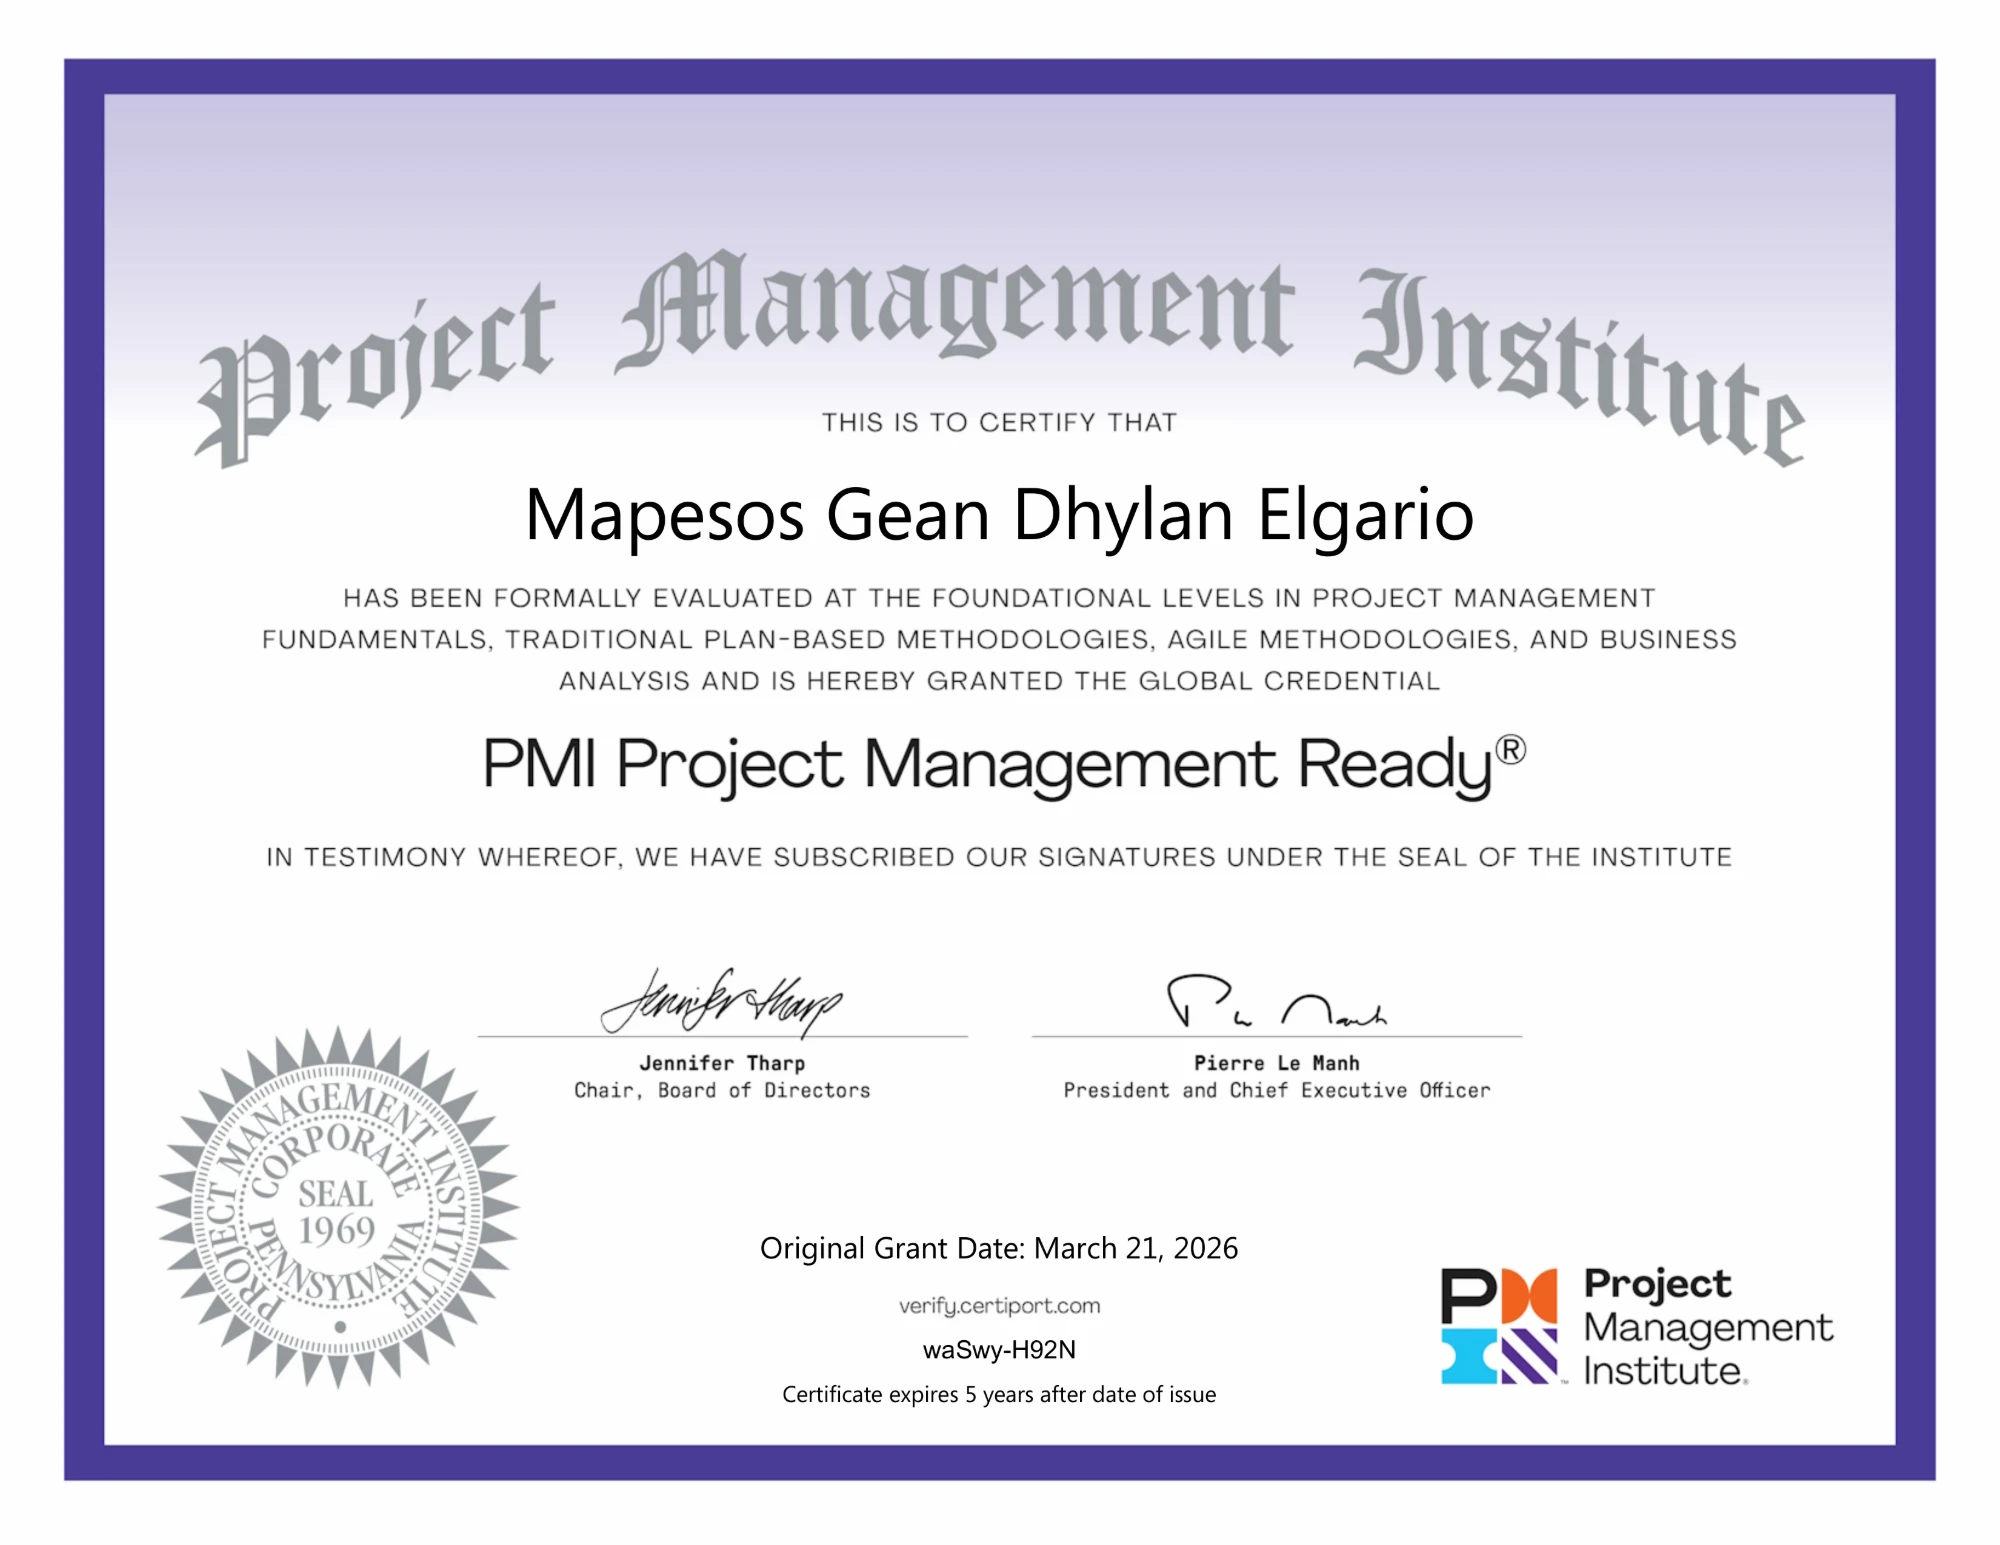
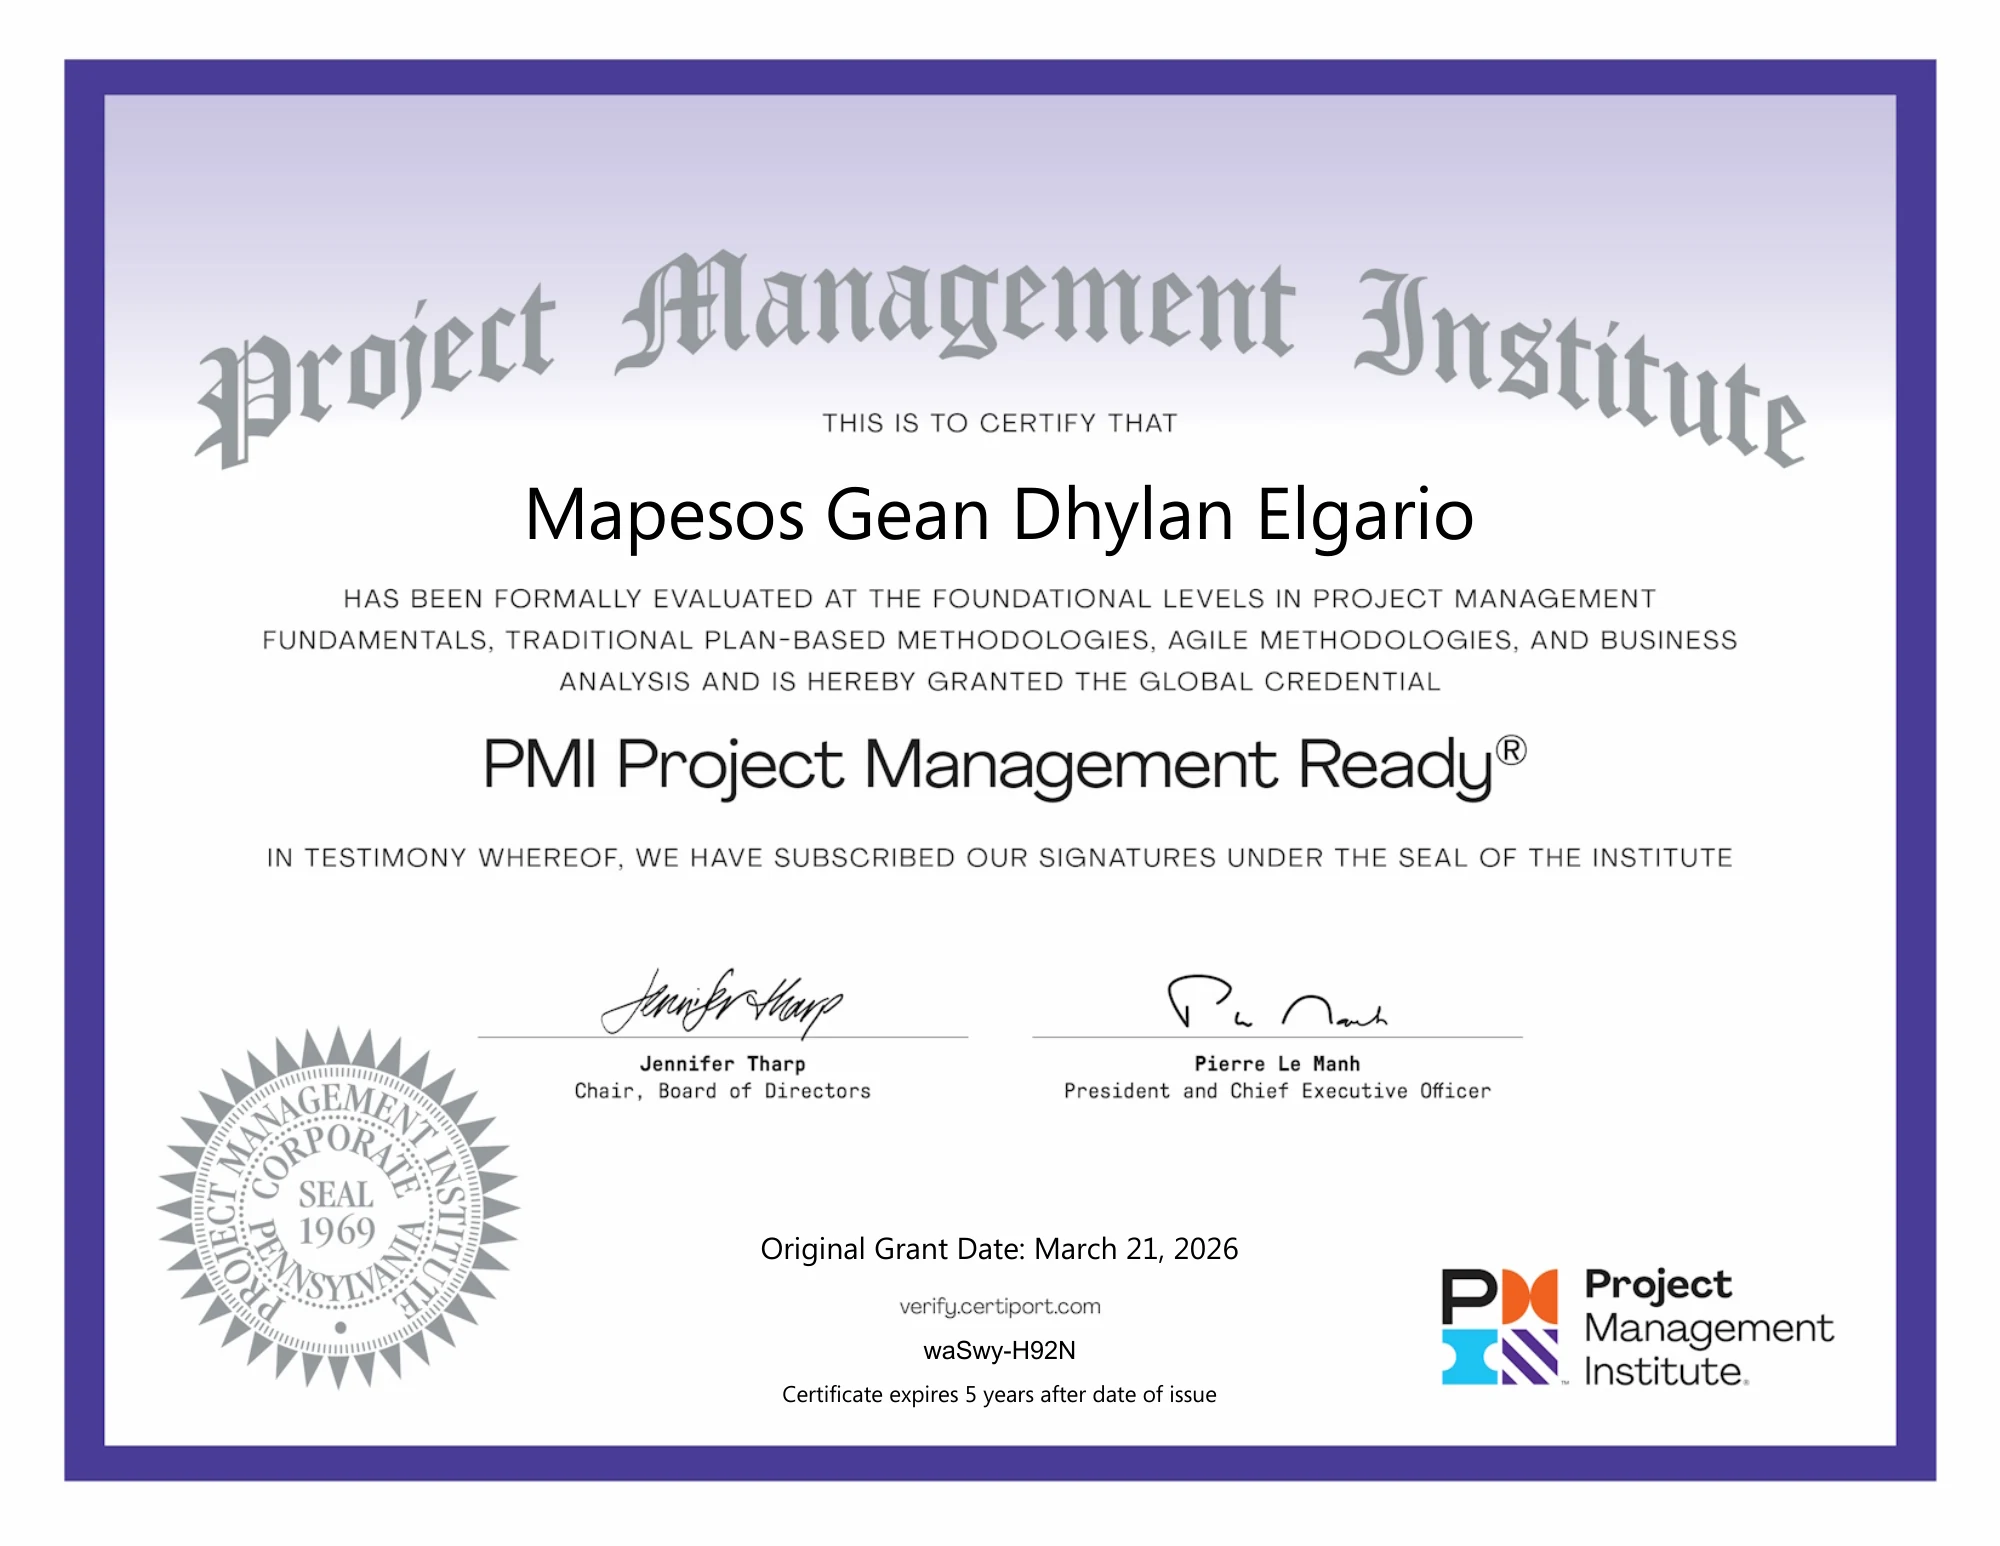
feat: show the official Certiport certificates
Replace the Python badge with the official certificate rendered from
the Certiport PDF, and re-render the PMI certificate from its PDF too.
Python now lists its credential ID and verifies at verify.certiport.com
like PMI, and the row starts with Python, then PMI, then CCNA.

diff --git a/app/data.ts b/app/data.ts
@@ -3,7 +3,7 @@
 import type { StaticImageData } from "next/image";
 import ccnaCertificate from "@/assets/certificates/ccna-introduction-to-networks.webp";
 import pmiCertificate from "@/assets/certificates/pmi-project-management-ready.webp";
-import pythonBadge from "@/assets/certificates/it-specialist-python.webp";
+import pythonCertificate from "@/assets/certificates/it-specialist-python.webp";
 import feuTechLogo from "@/assets/logos/feu-tech.png";
 import s4eLogo from "@/assets/logos/s4e.png";
 
@@ -93,6 +93,15 @@ type Certification = {
 
 export const certifications: Certification[] = [
   {
+    name: "IT Specialist - Python",
+    issuer: "Certiport, a Pearson VUE business",
+    issued: "Jul 2025",
+    expires: "Jul 2030",
+    credentialId: "JdCD-4wb2",
+    verifyUrl: "https://verify.certiport.com",
+    image: pythonCertificate,
+  },
+  {
     name: "PMI Project Management Ready®",
     issuer: "Project Management Institute",
     issued: "Mar 2026",
@@ -107,15 +116,6 @@ export const certifications: Certification[] = [
     issued: "Aug 2025",
     note: "Completed through FEU Institute of Technology",
     image: ccnaCertificate,
-  },
-  {
-    name: "IT Specialist - Python",
-    issuer: "Certiport, a Pearson VUE business",
-    issued: "Jul 2025",
-    expires: "Jul 2030",
-    verifyUrl:
-      "https://www.credly.com/badges/b814a519-c63e-4c9f-a1a4-0f43908049a7",
-    image: pythonBadge,
   },
 ];
 
